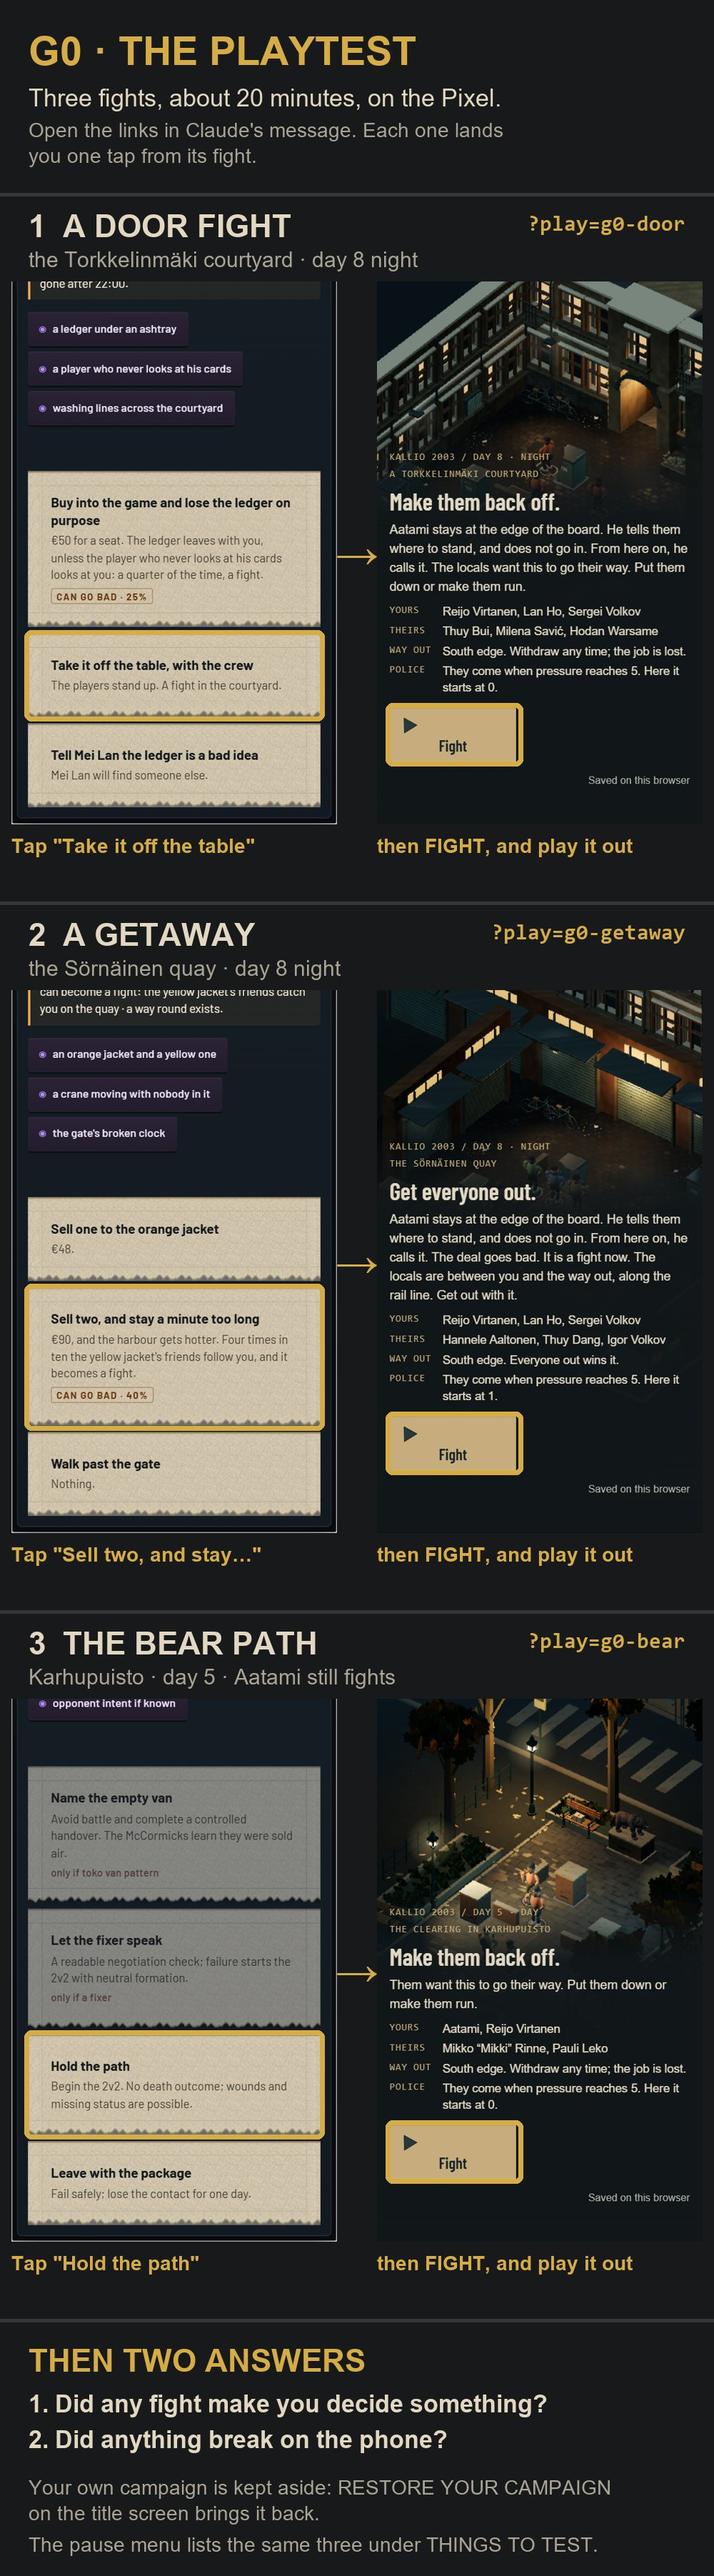
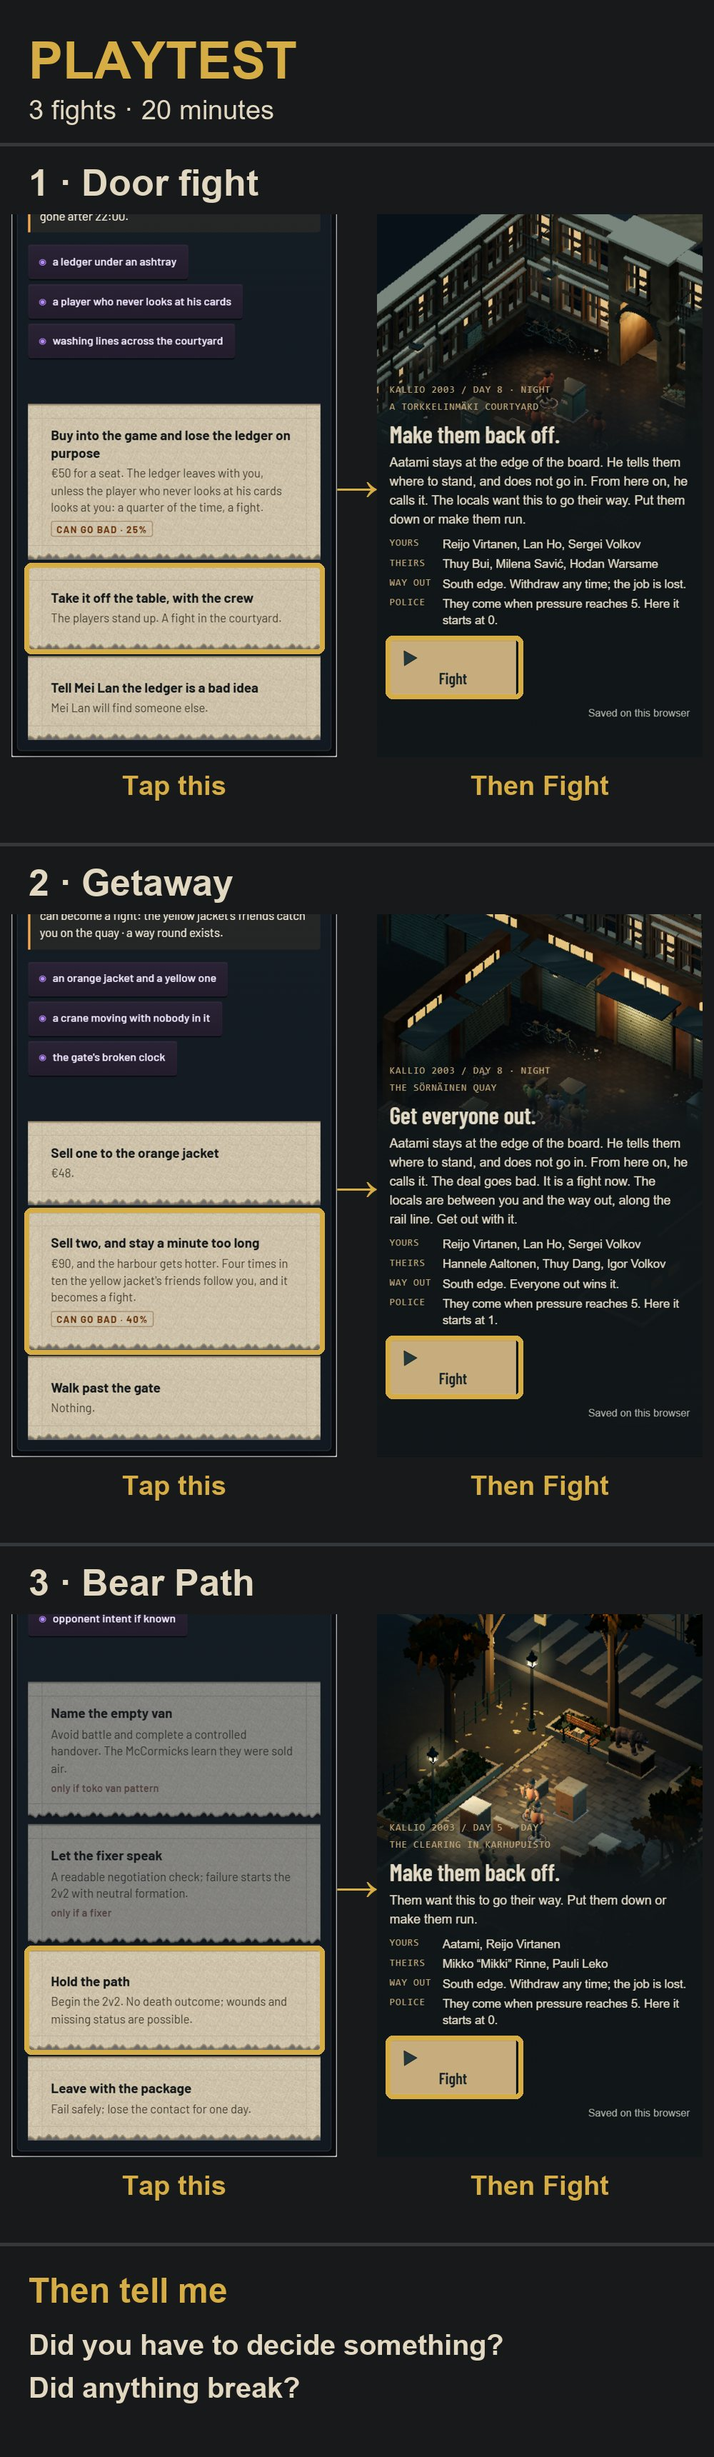
Playtest: one line per card and a picture with almost no words; Godot paused
Owner, 2026-10-26: 'Too much text on those cards, simple UI is better' and 'No Godot
until later'.
- THINGS TO TEST: each playtest is a title, a place and what to tap ('Tap "Hold the
  path", then Fight.'). The toast is shorter.
- design/G0_PLAYTEST.jpg: three rows of 'Tap this' -> 'Then Fight' over the outlined
  screenshots, and the two questions once at the end.
- ROADMAP §6/§8 and DESIGN_AUTHORITY: Godot paused (option a); releases say 'Godot
  paused' instead of writing Port sections. ROADMAP §7 notes the Toko dance v3 and its
  CC BY 4.0 credit (AIST++ motion data).

Changed region(s): [[0.0, 0.0, 0.992, 0.9953], [0.93, 0.5599, 0.961, 0.591]]

diff --git a/web/js/v3/testlist.js b/web/js/v3/testlist.js
@@ -45,6 +45,9 @@ export const TESTS = [
   // ── ROADMAP.md G0, the playtest ────────────────────────────────────────
   // Three fights, about twenty minutes on the Pixel, then two answers: did any
   // fight make you decide something, and did anything break on the device?
+  // Owner, 2026-10-26: "Too much text on those cards, simple UI is better" — so
+  // each says what to tap and nothing else; the questions are on the picture
+  // (design/G0_PLAYTEST.jpg).
   // Each also opens from a cold start with `?play=<id>`. A Night Shift fight
   // hands over through the save, so a playtest plays a fresh campaign; the
   // one you had is set aside first and the title screen offers it back.
@@ -52,27 +55,27 @@ export const TESTS = [
     id: 'g0-door',
     rev: 1,
     build: 'js',
-    title: 'Playtest 1 of 3 — a door fight',
-    where: 'Day 8 · night · the Torkkelinmäki courtyard',
-    note: 'You are standing at a taken door, The Card Game\'s Ledger, with three crew; Aatami has stepped back. The job is a fight: make them back off. "Take it off the table, with the crew" goes straight into Night Shift in the courtyard. Look for a moment where you have to decide whose safety to spend, the police clock that tells you when they come, and the result coming back to the map once. Then the two questions: did it make you decide something, and did anything break on the phone?',
+    title: 'Playtest 1/3 · Door fight',
+    where: 'Courtyard · day 8 night',
+    note: 'Tap "Take it off the table", then Fight.',
     jump: { kind: 'door', id: 'hit-courtyard-ledger', block: 15, crew: 3 },
   },
   {
     id: 'g0-getaway',
     rev: 1,
     build: 'js',
-    title: 'Playtest 2 of 3 — a getaway',
-    where: 'Day 8 · night · the Sörnäinen quay',
-    note: 'A sale on the quay, with two packs on you. Choose "Sell two, and stay a minute too long", marked CAN GO BAD: on this card it goes bad, so you get the getaway. Here the win is everyone out by the exit with what you came for. Look for whether walking straight out is enough (it measured at two rounds) and whether the way out reads on the small screen. Then the two questions.',
+    title: 'Playtest 2/3 · Getaway',
+    where: 'Quay · day 8 night',
+    note: 'Tap "Sell two", then Fight. Get everyone out.',
     jump: { kind: 'door', id: 'sale-quay-shift', block: 15, crew: 3, stock: 2 },
   },
   {
     id: 'g0-bear',
     rev: 1,
     build: 'js',
-    title: 'Playtest 3 of 3 — the Bear Path',
-    where: 'Day 5 · day · Karhupuisto',
-    note: 'A mission battle. Aatami still fights here, beside one of his two crew. "Hold the path" is fought in the park in Night Shift; the other answers avoid it. Look for Aatami on the board and carried out if he falls, and the mission\'s stakes paid once when you come back. Then the two questions.',
+    title: 'Playtest 3/3 · Bear Path',
+    where: 'Park · day 5',
+    note: 'Tap "Hold the path", then Fight.',
     jump: { kind: 'encounter', id: 'enc-bear-path', crew: 2 },
   },
   {

diff --git a/web/js/v3/app.js b/web/js/v3/app.js
@@ -2726,7 +2726,7 @@ async function boot() {
         state = createState(data.content);
         $('splash').hidden = true;
         jumpTo(item.jump);
-        if (keptYours) logToast('Your campaign is set aside. RESTORE YOUR CAMPAIGN on the title screen brings it back.');
+        if (keptYours) logToast('Your campaign is kept. Restore it from the title screen.');
       }
     }
     // ?cutin=<who> — a waist-up cut-in preview over whatever is on screen (jaska and aatami at the Scene Club, arvo on the news)

diff --git a/ROADMAP.md b/ROADMAP.md
@@ -90,10 +90,7 @@ Each lever is measured on its own before they are combined.
   - Keep the receipt.
   - Add two lines: "owner played: yes/pending", and the `fight-balance` table whenever a release touches fights.
   - Ship only bytes that CI saw green. v4.78 shipped with CI green on a later, test-only head; the bytes matched, but say so in the receipt.
-- **Godot: owner decision.**
-  - (a) Pause it officially until G4. Port notes keep piling up in VERSIONS.md, and its CI stays green only because it does not change.
-  - (b) Port the C engine now, which is CAMPAIGN P5 pulled forward.
-  - **Recommended: (a).** A port of fights that are not yet fun is work done twice.
+- **Godot: paused.** Owner, 2026-10-26: *"No Godot until later."* That is option (a): no ports until the web build has earned them (G4 at the earliest). Releases stop writing Port sections and say "Godot paused" instead.
 - **Hub reconcile.** `design/HUB_RELEASE.md` step 4 (reconcile `gh-pages` → Suds-Jack `main` with a game PR) has not been done since 2026-10-02. Either do one reconcile PR or drop the rule. Owner's call.
 - **Open PRs (17).**
   - #101 and #102 are folded in here: their still-live parts are G0, G4, P5 and P6.
@@ -114,13 +111,15 @@ The Suds-Jack goal *"export cool MP4s that work as marketing for Toko and the ga
 - FFmpeg (already in this environment) encodes it;
 - optionally, Kokoro voiceover (English and Japanese; no Finnish voice) and whisper.cpp captions.
 
+- **The Toko dance (v3, made with the Grok bot, 2026-10-26).** A 7.5-second transparent loop at 128 BPM from AIST++ motion capture (Google), licensed **CC BY 4.0**: any published use needs the credit *"Motion data: AIST++ (Google), CC BY 4.0"*. The files are in the bot's own workspace, not in this repo.
+
 GSAP is the candidate for the non-fight motion graphics (cut-ins, map, Toko), because it is one file with no build step. Adding it needs the owner's yes (`CLAUDE.md` §2: no new dependencies).
 
 ## 8. Decisions only the owner can make
 
 1. The G1 targets (§5).
 2. The shot caller: the four questions at the end of `design/C19_SHOT_CALLER.md`.
-3. Godot: pause (recommended) or port now.
+3. ~~Godot: pause or port now.~~ **Answered 2026-10-26: "No Godot until later."**
 4. Which stale PRs to close.
 5. Question 26: what makes Aatami step back. Three crew is provisional.
 6. D002: what travel and trades cost in time. Today they are free on the web.

diff --git a/VERSIONS.md b/VERSIONS.md
@@ -85,7 +85,7 @@ Use resolved impact classifications for presentation; never reapply damage on re
   - `?play=g0-door`: *The Card Game's Ledger* in the Torkkelinmäki courtyard, day 8 night, three crew, so Aatami has stepped back. *"Take it off the table, with the crew"* goes straight into Night Shift. The job is a fight.
   - `?play=g0-getaway`: *The Quay Shift*, day 8 night, with two packs on you. *"Sell two, and stay a minute too long"* goes bad on that block by the door's own roll (0.06 against 40%), so it becomes the getaway on the quay.
   - `?play=g0-bear`: the Bear Path, day 5, two crew, so Aatami still fights. *"Hold the path"* is fought in the park.
-- **The same three lead THINGS TO TEST** in the pause menu, each with what to look for and the two questions. Approving one removes it, so the list is the playtest's checklist.
+- **The same three lead THINGS TO TEST** in the pause menu, one line each: what to tap. Owner, 2026-10-26: *"Too much text on those cards, simple UI is better."* The two questions are on the picture, `design/G0_PLAYTEST.jpg`. Approving one removes it, so the list is the playtest's checklist.
 - **Your campaign is kept.** A Night Shift fight hands over through the save, so a playtest plays a fresh campaign that saves. The campaign you had is set aside first, once, and never a playtest's own. **RESTORE YOUR CAMPAIGN** on the title screen puts it back.
 - **A new jump, and nothing about the fights changed.** A door is offered and taken through `doors.js` exactly as the board does it, at a named block. Any jump can bring the crew its fight needs and the stock its deal needs.
 - Cache: `app.js?v=48`, `pause.js?v=5`, `testlist.js?v=4`. Gates: `play-card.cjs` (new, 26 checks, in the Act I browser job). Each link lands on its encounter with its fight open, hands over to Night Shift at the right place with the right job, and RESTORE gives your campaign back. `v3-contract` and `scene-content` follow the tokens.
@@ -93,7 +93,7 @@ Use resolved impact classifications for presentation; never reapply damage on re
 
 ### Port
 
-Nothing to port. Godot has no Night Shift (CAMPAIGN G8), and ROADMAP §6 recommends pausing it until G4.
+Godot paused. Owner, 2026-10-26: *"No Godot until later."*
 
 ## v4.80 — 2026-10-25
 

diff --git a/DESIGN_AUTHORITY.md b/DESIGN_AUTHORITY.md
@@ -2,6 +2,13 @@
 
 > **Plan of record, 2026-10-25: [ROADMAP.md](ROADMAP.md).** Owner: *"Check all documentation to see if we are going with the plans, adjust pipeline roadmap and plan accordingly. Act as a super producer focused on gameplay."* The rulings below stand; the roadmap orders the work and names the decisions still open (its §8).
 
+## Owner answers, 2026-10-26 — Godot waits; simple UI
+
+- **"No Godot until later."** ROADMAP §6 option (a): no Godot ports until the web
+  build has earned them. Port notes stop; releases say "Godot paused".
+- **"Too much text on those cards, simple UI is better."** Said of the playtest
+  (v4.81). A test card says what to tap and nothing more.
+
 ## Owner rulings, 2026-10-23/24 — characters talk as waist-up cut-ins
 
 Shipped in v4.80 (PR #107). In the owner's words:
